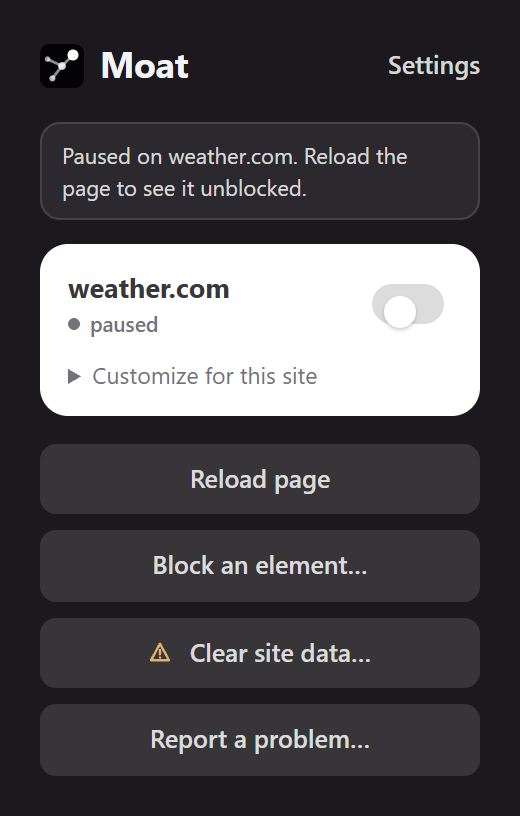
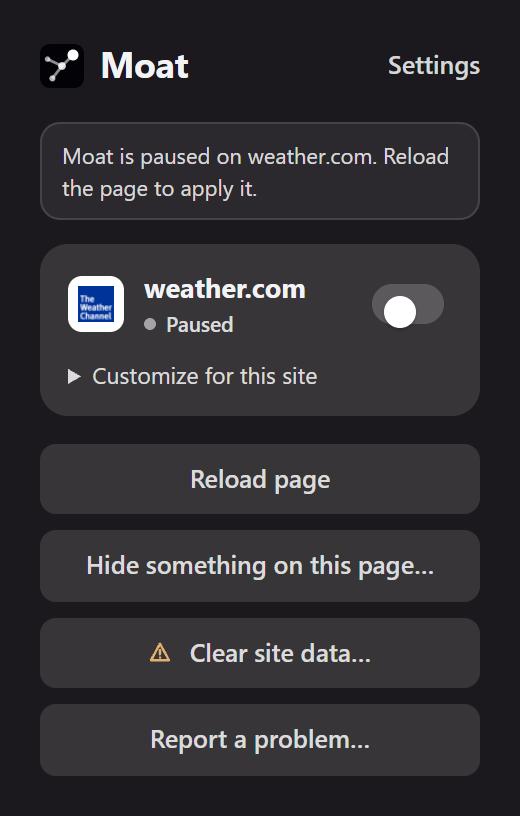
Docs: README, store copy and popup screenshots match the current UI
- README: "Hide something on this page…" (was "Block an element…"),
  Light/Balanced/Strict levels, the plain-language count read, filter
  entries vs packed rules (~314,000 into ~72,000), and a limits entry
  covering both Chrome's shared pool and Firefox's 30,000 per extension.
- Store listing: YouTube dimmer is on by default (was listed as opt-in);
  "what leaves your device" names the daily security lists and problem
  reports.
- Store screenshots 3 and 5 rebuilt from fresh popup captures (new
  labels, site icon, status dot). Page captures kept: weather.com now
  shows an Admiral anti-adblock wall with Moat on.

Changed region(s): [[0.0615, 0.2757, 0.9231, 0.5208], [0.1231, 0.1838, 0.8615, 0.2451], [0.1538, 0.674, 0.8, 0.7047]]

diff --git a/README.md b/README.md
@@ -35,14 +35,14 @@ Everything happens on your computer, and nothing about you is sent anywhere, unl
 
 ## What it does
 
-- **Blocks ads and trackers** on every site, using about 310,000 filter rules that run inside the
+- **Blocks ads and trackers** on every site, using about 310,000 filter entries that run inside the
   browser's own blocking engine, so pages stay fast.
 - **Closes hijacked pop-ups.** Fake prize and fake virus tabs are shut the moment they open.
 - **Tidies up the page.** The empty boxes a blocked ad leaves behind collapse, so pages don't look
   broken.
 - **Says no to cookie banners** for you, if you switch it on in Settings.
 - **Lets you stay in control.** Pause Moat on a site you trust with one switch, or click
-  **Block an element…** to hide anything a filter list missed.
+  **Hide something on this page…** to hide anything a filter list missed.
 - **Optional extras**, all off until you want them: fingerprinting protection, warnings when a
   password you type has leaked in a breach, and uncloaking trackers that hide behind a site's own
   domain.
@@ -111,7 +111,8 @@ is in [`docs/design-notes.md`](docs/design-notes.md).
 <details>
 <summary><strong>Everything Moat does, in technical detail</strong></summary>
 
-- **Network blocking.** ~314,000 `declarativeNetRequest` rules from 11 bundled AdGuard filter lists
+- **Network blocking.** ~314,000 filter entries, packed into ~72,000 `declarativeNetRequest`
+  rules, from 11 bundled AdGuard filter lists
   (ads, trackers, malicious/phishing/scam domains, cookie notices, annoyances), plus three
   independent third-party sources for redundant coverage (a daily-updated scam-domain list, a
   community ad/tracker/malware aggregate, and a longstanding ad-server list), plus a few
@@ -120,8 +121,9 @@ is in [`docs/design-notes.md`](docs/design-notes.md).
   background tab safety net for anything that slips past.
 - **Cosmetic filtering.** Hides leftover ad boxes and cookie banners network blocking can't reach,
   including procedural (`:has-text` / `:xpath` / `:upward`) rules a plain stylesheet can't express.
-- **Block-count breakdown.** Ads / Trackers / Popups split (Chrome only), a "Light / Moderate /
-  Heavy" read, and an optional by-company list, expanded in Settings → Trackers.
+- **Block-count breakdown.** Ads / Trackers / Pop-ups split (Chrome only), a plain-language read
+  ("A few" / "Quite a few" / "Lots of ads and trackers blocked"), and an optional by-company
+  list, expanded in Settings → Trackers.
 - **Element picker.** Hides anything the lists miss, permanently or just once, or grays it out if
   hiding breaks the layout.
 - **Grayed-out video ads.** Dims YouTube in-stream ads that can't be blocked outright.
@@ -137,8 +139,8 @@ is in [`docs/design-notes.md`](docs/design-notes.md).
 - **Global Privacy Control.** Sends `Sec-GPC`, a legally binding opt-out signal in a dozen US states.
 - **Leaked-password check** (opt-in). HaveIBeenPwned k-anonymity: only a 5-character hash prefix
   leaves the device.
-- **Filtering levels and custom rules.** Off / Lite / Essential / Standard / Strict presets,
-  per-list toggles, and your own block/allow lists.
+- **Blocking levels and custom rules.** Light / Balanced / Strict (Balanced by default), per-list
+  toggles under Settings → Filter lists, and your own block/allow lists.
 - **Per-site pause, a keyboard shortcut, settings export/import with opt-in sync, and a "Report a
   problem" button.**
 - **Enterprise-managed policy** via Chrome's `ExtensionSettings` or Firefox's `policies.json`. See
@@ -166,7 +168,7 @@ One codebase builds for Chrome and Firefox. The Firefox build also targets **Fir
 | `dns` (Firefox only) | CNAME resolution for "Uncloak disguised trackers"; inert unless that toggle is on. |
 | `webRequest` + `webRequestBlocking` (Firefox only) | Cancel a request once its resolved CNAME target matches a known tracker. |
 | `webRequest` (Chrome only, non-blocking) | Observes candidate requests for "Uncloak disguised trackers". Inert unless that toggle is on. |
-| `scripting` | Registers the optional content scripts only for the sites each applies to; injects cosmetic CSS; runs the element picker only when you click "Block an element…". |
+| `scripting` | Registers the optional content scripts only for the sites each applies to; injects cosmetic CSS; runs the element picker only when you click "Hide something on this page…". |
 | `contentSettings` | Sets the camera/mic/location permission default to "block" for the opt-in ambush-prompt guard. Chrome only. Inert unless that toggle is on. |
 | `browsingData` | Backs the popup's manual "Clear site data…" button, scoped to the current site. Never called automatically. |
 | `favicon` (Chrome only) | Shows each site's icon beside it in Settings lists, read from Chrome's own local icon cache. No network request. |
@@ -183,11 +185,15 @@ One codebase builds for Chrome and Firefox. The Firefox build also targets **Fir
   cloaked tracker in a session. Firefox's path blocks every request with no third party involved.
 - **The YouTube dimmer and feed scanner are DOM heuristics** and can stop matching when a site
   changes its markup. Both are switchable; the feed scanner is off by default and English-only.
-- **Chrome's static-rule budget is shared across every installed extension** (~30,000 guaranteed;
-  Moat ships ~314,000; the fresh-install preset uses ~310,000 and fits on its own). With other
-  rule-heavy extensions present, some lists may not enable: `filterGroups.ts` drops the least
-  essential first, and Advanced settings → Filter lists shows which. Fresh installs start on
-  Balanced; Light or Essential use the smallest footprint.
+- **Browsers cap how many blocking rules an extension can use.** Moat's lists pack ~314,000
+  filter entries into ~72,000 rules; the default level (Balanced) needs ~68,000. When they don't
+  all fit, `filterGroups.ts` turns on the most important lists that do (ads first, annoyance
+  lists last), and Settings → Filter lists shows which were left out.
+  - **Chrome** shares a pool of about 330,000 rules between all extensions (~30,000 guaranteed
+    each). Balanced fits on its own; other rule-heavy extensions can crowd it.
+  - **Firefox** gives each extension 30,000. On Balanced, Moat keeps the ads, trackers, pop-up,
+    scam and badware lists and leaves out link tracking and the bundled malware and phishing
+    lists. The daily malware and phishing lists stay on, since they don't count toward the limit.
 - **`web-ext lint` reports 4 expected warnings, 0 errors**: a false-positive coinminer hit on a
   blocked domain name, plus feature-detected references to Chrome-only debug APIs.
 

diff --git a/docs/store-listing.md b/docs/store-listing.md
@@ -36,18 +36,21 @@ day one — not a stripped-down port of an older extension.
 - Shuts hijacked popups and redirect tabs silently, with a baseline domain list
   plus a small daily-refreshed slice.
 - Hides leftover ad boxes and empty containers with cosmetic filtering.
-- Auto-rejects cookie-consent banners.
-- Optional, all off by default: fingerprint resistance, a YouTube ad dimmer, a
-  feed ad scanner, a leaked-password check (via Have I Been Pwned's
+- Auto-rejects cookie-consent banners, and grays out YouTube video ads it
+  can't block.
+- Optional, all off by default: fingerprint resistance, a feed ad scanner, a
+  leaked-password check (via Have I Been Pwned's
   k-anonymity API — a 5-character hash prefix, never the password), and tracker
   CNAME-uncloaking.
 
 **What leaves your device**
 
-Roughly once a day Moat downloads a few small static filter-fix files from a
-public GitHub Pages URL — a plain file fetch that carries nothing about you.
-The two opt-in features above talk to third parties (Have I Been Pwned; a
-public DNS resolver), never to Moat. There is nothing else. Full disclosure:
+Roughly once a day Moat downloads a few small signed files from a public
+GitHub Pages URL: filter fixes and today's phishing, malware and scam domain
+lists. It's a plain file fetch that carries nothing about you. Two opt-in
+features talk to third parties (Have I Been Pwned; a public DNS resolver),
+never to Moat. A problem report goes to Moat only when you choose to send
+one. There is nothing else. Full disclosure:
 https://github.com/Samuelabhinav37/moat/blob/master/PRIVACY.md
 
 **Why `<all_urls>`**
@@ -112,7 +115,7 @@ Source (GPL-3.0): https://github.com/Samuelabhinav37/moat
 | `storage` | Store the user's own settings and per-site pause list locally on-device. Never transmitted. |
 | `privacy` | Backs the opt-in privacy toggles (third-party cookie blocking, WebRTC leak protection); inert unless the user turns one on. |
 | `alarms` | Schedule the daily check for a refreshed popup/redirect domain list and cosmetic-fix file. |
-| `scripting` | Register the optional content scripts (feed ad removal, YouTube dimmer) scoped only to the sites each applies to; inject cosmetic CSS from the background service worker; run the element picker only when the user clicks "Block an element…". |
+| `scripting` | Register the optional content scripts (feed ad removal, YouTube dimmer) scoped only to the sites each applies to; inject cosmetic CSS from the background service worker; run the element picker only when the user clicks "Hide something on this page…". |
 | `webRequest` (non-blocking) | Observe candidate requests for the opt-in "Uncloak disguised trackers" feature; inert unless that toggle is on. Chrome's MV3 `webRequest` can no longer block, so this is observation-only feeding `declarativeNetRequest` dynamic rules. |
 | `contentSettings` | Set the browser-level camera/microphone/location permission default to "block" for the opt-in ambush-prompt guard (a site requesting one with no user gesture). Inert unless that toggle is on. |
 | `browsingData` | Backs the popup's manual "Clear site data…" button: on click, clears the active tab's own cookies, IndexedDB, local storage and service workers for that one site. Never called automatically and never touches other sites. |
